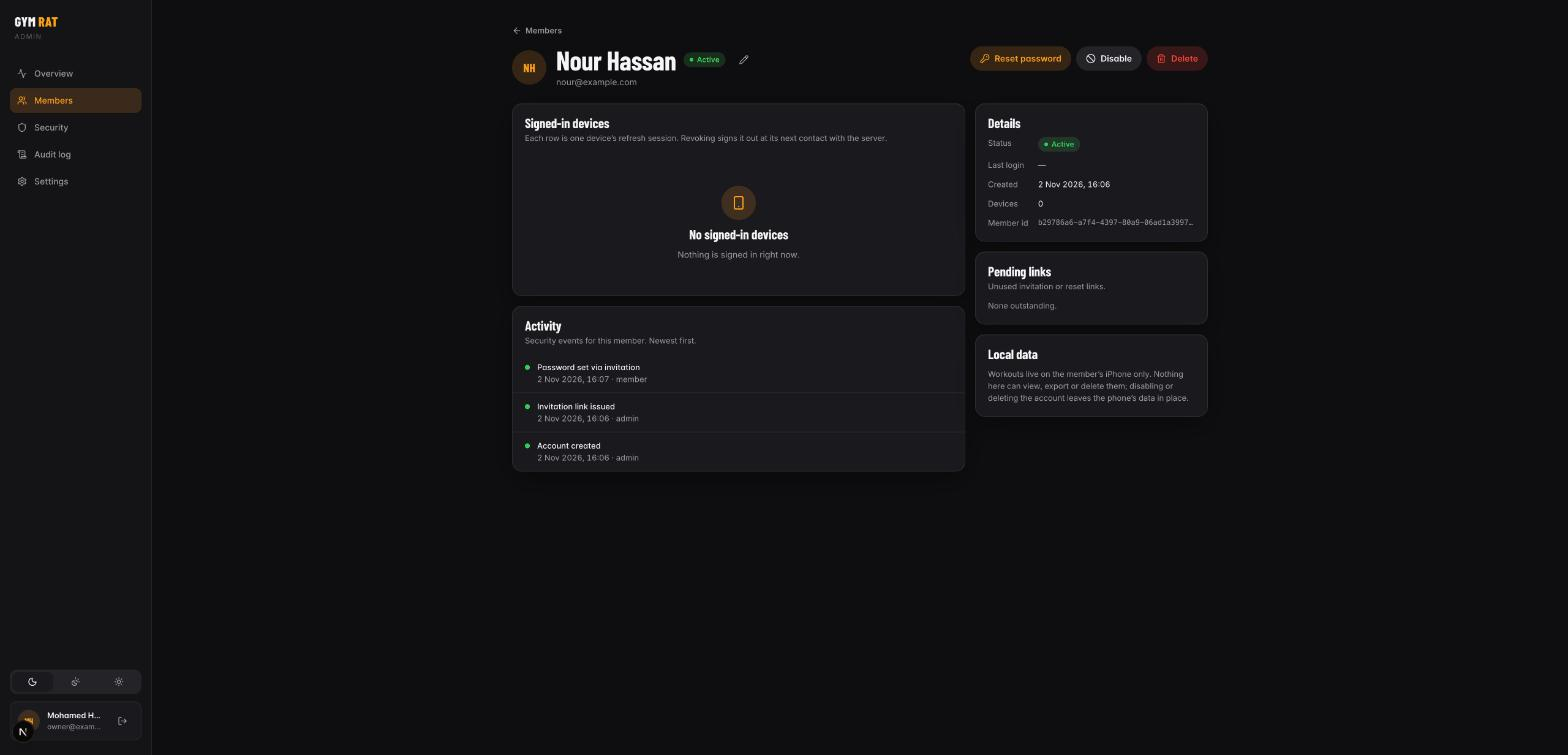
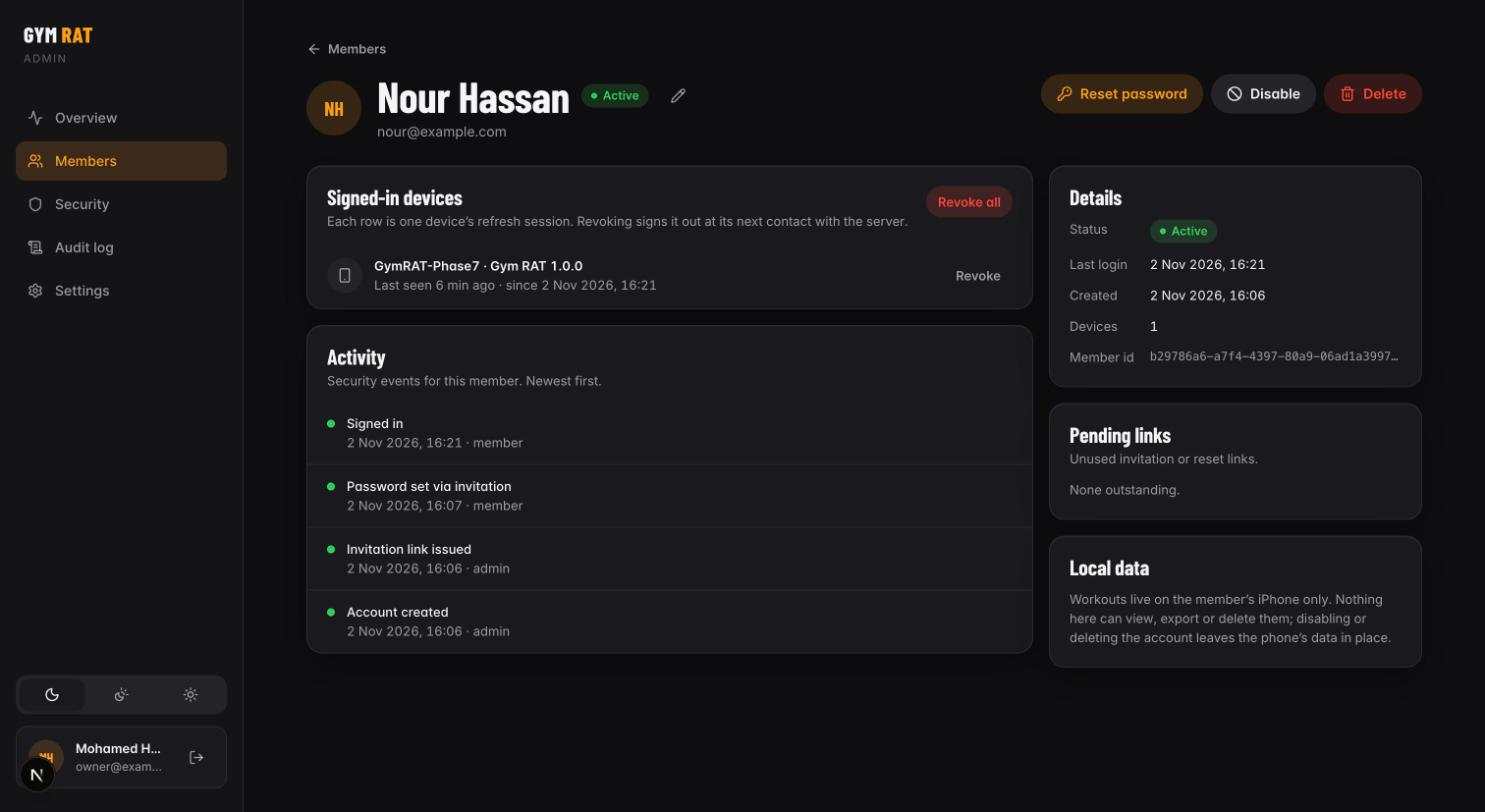
fix(auth-ui): keep Arabic eyebrow joined; soften brand glow; Phase 7 docs and screenshots

diff --git a/components/auth/BrandMark.tsx b/components/auth/BrandMark.tsx
@@ -1,7 +1,7 @@
 import { StyleSheet, Text, View } from 'react-native';
 import Svg, { Defs, Ellipse, RadialGradient, Stop } from 'react-native-svg';
 
-import { useT } from '@/i18n';
+import { isRtlLocale, useLocale, useT } from '@/i18n';
 import { createStyles, useTheme } from '@/theme';
 
 /**
@@ -12,20 +12,23 @@ export function BrandMark({ compact = false }: { compact?: boolean }) {
   const styles = useStyles();
   const theme = useTheme();
   const t = useT();
+  const locale = useLocale();
+  // Arabic letters join; tracking and upper-casing would break the word apart.
+  const latin = !isRtlLocale(locale);
   const glow = theme.scheme === 'dark' ? 0.28 : 0.16;
   return (
     <View style={[styles.root, compact && styles.rootCompact]} accessibilityRole="header" accessibilityLabel={`${t('auth.brand')}. ${t('auth.eyebrow')}`}>
       <Svg pointerEvents="none" style={StyleSheet.absoluteFill} width="100%" height="100%" viewBox="0 0 320 200" preserveAspectRatio="none">
         <Defs>
-          <RadialGradient id="glow" cx="50%" cy="55%" rx="55%" ry="60%">
+          <RadialGradient id="glow" cx="50%" cy="50%" rx="50%" ry="50%">
             <Stop offset="0" stopColor={theme.colors.tint} stopOpacity={glow} />
             <Stop offset="1" stopColor={theme.colors.tint} stopOpacity={0} />
           </RadialGradient>
         </Defs>
-        <Ellipse cx="160" cy="110" rx="190" ry="120" fill="url(#glow)" />
+        <Ellipse cx="160" cy="100" rx="160" ry="100" fill="url(#glow)" />
       </Svg>
-      <Text style={styles.eyebrow} accessibilityElementsHidden importantForAccessibility="no">
-        {t('auth.eyebrow').toUpperCase()}
+      <Text style={[styles.eyebrow, latin && styles.eyebrowLatin]} accessibilityElementsHidden importantForAccessibility="no">
+        {latin ? t('auth.eyebrow').toUpperCase() : t('auth.eyebrow')}
       </Text>
       <Text style={[styles.wordmark, compact && styles.wordmarkCompact]} accessibilityElementsHidden importantForAccessibility="no" allowFontScaling={false}>
         {t('auth.brand')}
@@ -46,10 +49,10 @@ const useStyles = createStyles((t) =>
     rootCompact: { paddingTop: t.spacing.lg, paddingBottom: t.spacing.md },
     eyebrow: {
       ...t.typography.footnote,
-      letterSpacing: 2.5,
       color: t.colors.labelSecondary,
       marginBottom: t.spacing.xs,
     },
+    eyebrowLatin: { letterSpacing: 2.5 },
     wordmark: {
       fontFamily: t.fonts.displayHeavy,
       fontSize: 72,

diff --git a/server/README.md b/server/README.md
@@ -1,0 +1,156 @@
+# Gym RAT auth server + admin dashboard
+
+Self-hosted accounts for the Gym RAT iPhone app (Phase 7, ADR-015/016). One Next.js
+application serves the JSON API the app talks to and the admin dashboard the owner uses.
+PostgreSQL stores accounts, sessions, one-time links and the audit log. **No workout data
+ever reaches this server**: workouts live in SQLite on each member's iPhone.
+
+- Members are created only by the admin. There is no sign-up.
+- Every active member gets every app feature. No tiers, no payments.
+- Admin sign-in needs a password **and** a TOTP authenticator.
+- The app keeps working offline for 7 days after its last successful check-in.
+
+## Layout
+
+```
+server/
+├── src/app/api/auth/*        member API: login, refresh, me, logout, forgot-password, links/[token]
+├── src/app/api/admin/*       admin API (cookie + TOTP + Origin check on every mutation)
+├── src/app/(public)          /login, /invite/[t], /reset/[t], /setup/[t]
+├── src/app/(admin)           /, /members, /members/new, /members/[id], /security, /audit, /settings
+├── src/lib/auth/*            password (Argon2id), jwt (jose), member + admin sessions, action tokens, rate limit
+├── src/lib/db/schema.ts      Drizzle schema → drizzle/*.sql migrations
+├── scripts/                  migrate.ts, bootstrap-admin.ts, dev/totp-code.mts
+├── tests/                    Vitest integration suite (real migrations on PGlite)
+├── Dockerfile, docker-compose.yml, deploy/caddy/Caddyfile, deploy/scripts/{backup,restore}.sh
+└── .env.example              production configuration template
+```
+
+## Local development
+
+```bash
+cd server
+npm install
+docker compose -f docker-compose.dev.yml up -d      # Postgres on 127.0.0.1:5433
+npm run db:migrate                                   # uses .env.development
+npm run bootstrap-admin -- --email you@example.com   # prints a one-time setup link
+npm run dev                                          # http://localhost:3100
+```
+
+Open the setup link, choose a password, sign in, scan the QR with an authenticator app
+(for scripted testing `npx tsx scripts/dev/totp-code.mts` prints the current code from the
+dev database). The iPhone app's Debug builds talk to `http://127.0.0.1:3100` by default
+(`EXPO_PUBLIC_AUTH_API_URL` in the app's `.env` overrides it).
+
+```bash
+npm test          # 30 API integration tests on an in-memory PostgreSQL (PGlite)
+npm run typecheck
+npm run lint
+npm run build     # production build (standalone output)
+```
+
+## Production on a VPS (Docker Compose)
+
+Requirements: a Linux VPS with Docker Engine + Compose v2, a domain whose A/AAAA record
+points at it, and ports 80/443 reachable. Nothing else is exposed: Postgres and the app
+stay on the internal Docker network; Caddy terminates HTTPS with automatic Let's Encrypt.
+
+```bash
+# on the VPS
+git clone <repo> /opt/gymrat && cd /opt/gymrat/server
+cp .env.example .env
+# edit .env: SITE_ADDRESS, PUBLIC_ORIGIN, ACME_EMAIL,
+#   POSTGRES_PASSWORD=$(openssl rand -base64 24)
+#   AUTH_SECRET=$(openssl rand -base64 48)
+docker compose up -d --build
+docker compose logs -f app          # "migrations applied" then "Ready"
+curl -s https://$SITE_ADDRESS/api/health
+
+# first admin (one-time link printed; no password in env or chat)
+docker compose exec app node ./node_modules/tsx/dist/cli.mjs ./scripts/bootstrap-admin.ts --email you@example.com --name "Your Name"
+```
+
+Then build the iPhone app with `EXPO_PUBLIC_AUTH_API_URL=https://<SITE_ADDRESS>` in the app's
+`.env` so it talks to this server.
+
+### Operations
+
+| Task | Command |
+|---|---|
+| Update | `git pull && docker compose up -d --build` (migrations run at container start) |
+| Logs | `docker compose logs -f app` (one JSON line per audit event); Caddy access log in the `caddy_data` volume (`/data/access.log`, rotated 20 MiB × 5) |
+| Backup | `./deploy/scripts/backup.sh` → `deploy/backups/gymrat-<UTC>.sql.gz`, keeps 14. Cron: `15 3 * * * cd /opt/gymrat/server && ./deploy/scripts/backup.sh >> /var/log/gymrat-backup.log 2>&1`. Copy the folder off-box. |
+| Restore | `./deploy/scripts/restore.sh deploy/backups/<file>.sql.gz` (stops the app, replaces the database, starts it) |
+| Rotate `AUTH_SECRET` | change `.env`, `docker compose up -d`: every member must sign in again (access tokens and TOTP seeds are bound to it; re-enrol admin TOTP via the bootstrap CLI) |
+| Add another admin | `ALLOW_ADDITIONAL_ADMIN=1 … bootstrap-admin.ts --email …` (deliberate, never through the dashboard) |
+| Lost authenticator | use a recovery code; if none left, run the bootstrap CLI for that email to get a fresh setup link, then re-enrol |
+
+Container logs are capped at 10 MB × 5 files per service (`logging` in `docker-compose.yml`).
+Restart policy is `unless-stopped` for all three services; the app has a Docker healthcheck on
+`/api/health`, which also reports the database.
+
+### Firewall
+
+Allow inbound TCP 22 (SSH, ideally key-only and restricted by source), 80 and 443 (TCP and UDP
+for HTTP/3). Deny everything else. Postgres (5432) is never published; do not add a `ports:`
+entry to `db`. Example with ufw: `ufw default deny incoming; ufw allow 22; ufw allow 80; ufw allow 443; ufw enable`.
+
+### Monitoring
+
+- `GET /api/health` returns `{"status":"ok","database":"ok"}`; point any uptime monitor at it.
+- Caddy's `health_uri` polls it every 30 s and stops proxying while it fails.
+- Watch the audit log for `member.refresh.reuse_detected` (token replay), `admin.login.failed`
+  and `*.rate_limited`; they are also in `docker compose logs app` as JSON lines.
+- Disk: `docker system df` and the backups folder.
+
+## Security model (summary)
+
+- Passwords: Argon2id (64 MiB, t=3, p=1); policy ≥ 12 chars, deny-list, not the email.
+- Member sessions: 15-minute HS256 access tokens + 30-day opaque refresh tokens (SHA-256 at
+  rest) that rotate on every use; reuse of a spent token revokes the whole device family.
+  `GET /api/auth/me` checks the database, so disablement and revocation apply at the next
+  online contact. The app stores tokens in the iOS Keychain (`AfterFirstUnlockThisDeviceOnly`).
+- Offline lease: the server stamps `expiresAt = now + OFFLINE_LEASE_DAYS` on every login /
+  refresh / me; the app enforces it with a clock high-water mark, so turning the clock back
+  cannot extend it. Revocation while a phone is offline takes effect when it reconnects or
+  when the lease runs out, whichever comes first. The product copy says so.
+- Admin: HttpOnly, Secure, SameSite=Strict cookie; 12 h absolute / 60 min idle; mandatory
+  TOTP with ten hashed recovery codes; every non-GET request must carry a matching `Origin`
+  (or same-origin Fetch Metadata); CSP, `X-Frame-Options: DENY`, HSTS at Caddy.
+- Rate limits (Postgres fixed windows, keys hashed): login 20/15 min per IP and 5/15 min per
+  IP+email; refresh 120/min per IP; forgot-password 5/h per IP and 3/h per email; link
+  redemption 10/15 min per IP; admin login 10/15 min per IP; TOTP 8/15 min per session.
+- Enumeration: login, forgot-password and link redemption answer identically whether or not
+  the email exists.
+- Authorization: `withAdmin` wraps every admin route; member bearer tokens are refused there.
+  No endpoint writes `users.role`; admins exist only through the server CLI.
+- Audit: `audit_events` (actor, action, target, IP, user agent, success, metadata) — never
+  passwords, tokens or codes.
+
+### Sharing links manually (no SMTP)
+
+Without `SMTP_URL`, invitation and reset links are shown to the admin once, to share by hand.
+Implications:
+
+- Whoever opens a link first sets the password. Send it over a channel you trust (in person,
+  an end-to-end encrypted message), not a shared group chat.
+- Links are single-use and expire (invitations 72 h, resets 60 min); issuing a new one cancels
+  the old one, which is the remedy if a link may have leaked.
+- Only the SHA-256 of a link is stored; the dashboard cannot show an old link again.
+- Set `SMTP_URL`/`SMTP_FROM` to have the server email links instead; the member page then
+  says "emailed" and the link is still shown as a fallback.
+
+## API contract used by the app
+
+All JSON. Errors: `{ "error": "<code>" }` with `invalid_credentials` 401, `account_disabled` 403,
+`session_revoked` 401, `invalid_token` 401, `token_expired` 401, `rate_limited` 429 (+ `Retry-After`),
+`validation` 400, `weak_password` 400.
+
+| Method | Path | Body → Response |
+|---|---|---|
+| POST | `/api/auth/login` | `{email,password,deviceName?}` → `{accessToken, accessExpiresIn, refreshToken, user, lease, serverTime}` |
+| POST | `/api/auth/refresh` | `{refreshToken}` → same as login (rotated) |
+| GET | `/api/auth/me` | `Authorization: Bearer` → `{user, lease, serverTime}` |
+| POST | `/api/auth/logout` | `{refreshToken}` → 204 |
+| POST | `/api/auth/forgot-password` | `{email}` → 202 always |
+| GET/POST | `/api/auth/links/[token]` | preview / `{password}` → set password, activate, sign out all devices |

diff --git a/.10x/reviews/2026-11-02-phase7-security-review.md b/.10x/reviews/2026-11-02-phase7-security-review.md
@@ -1,0 +1,43 @@
+# Phase 7 security review — self-hosted auth, admin dashboard, device isolation
+
+**Date:** 2026-11-02 · **Scope:** `services/auth/*`, `data/db/boot.ts`, `app/_layout.tsx`, `server/**` · **Reviewer:** 10x-Team (Security Engineer) · **Method:** code reading against the brief's §4–§7 requirements, threat model below, and the automated suites (Jest 345, Vitest 30) that encode the attacks.
+
+## Threat model
+| Actor | Goal | Controls |
+|---|---|---|
+| Stranger on the internet | Sign in without an account; enumerate members; brute-force | No registration endpoint; identical 401 for unknown/wrong/invited; Argon2id with constant-time fallback hash; Postgres rate limits per IP and IP+email; TLS via Caddy; CSP/HSTS |
+| Thief with a stolen refresh token | Keep a session alive | Rotation on every use; reuse of a spent token revokes the whole family (`member.refresh.reuse_detected`); 30-day idle expiry; admin can revoke per device |
+| Disabled or deleted member | Keep using the app | `me` and `refresh` check `users.status` in the database → 403 at the next online contact; local data kept but the app signs out; offline window bounded to 7 days |
+| Member tampering with the phone clock | Extend offline use | Lease evaluated against `max(now, highWaterMark)` persisted in the Keychain; rollback flagged `clockSuspect`; forward moves only shorten the lease |
+| Second member on the same phone | Read the first member's workouts | One SQLite file per account; media folder per account; store hydrated empty between accounts; Health ledger nulled before the empty hydrate; legacy data only attached on explicit consent |
+| Attacker with a stolen admin password | Open the dashboard | Mandatory TOTP (window ±1), 8 attempts / 15 min per session, hashed recovery codes; cookie `HttpOnly; Secure; SameSite=Strict`; 12 h absolute / 60 min idle |
+| Cross-site page in the admin's browser | Trigger admin actions | `SameSite=Strict` cookie plus `Origin` / `Sec-Fetch-Site` check on every non-GET (`csrf` 403 tested); CSP `frame-ancestors 'none'` |
+| Member trying to become admin | Privilege escalation | No API path writes `users.role`; create/patch schemas drop/refuse `role` (tested); admins only via server CLI |
+| Someone who finds a shared invitation link | Take over the account | Single use, 72 h (reset 60 min), hashed at rest, re-issue cancels; documented manual-sharing guidance |
+| Database dump leak | Reuse credentials | Argon2id password hashes; SHA-256 of every token; TOTP seeds AES-256-GCM under an HKDF-derived key from `AUTH_SECRET`; recovery codes hashed |
+
+## Requirement check (brief §4)
+Email/password ✓ · no public registration ✓ · admin-only provisioning ✓ · unique ids (UUID) ✓ · Argon2id ✓ · strong password policy ✓ · rate limiting ✓ · generic errors ✓ · short-lived access tokens (15 min) ✓ · rotating refresh ✓ · server-side revocation ✓ · Keychain storage ✓ · HttpOnly/SameSite cookies ✓ · CSRF ✓ · authorization on every admin endpoint (`withAdmin`) ✓ · validation (zod) + parameterised queries (Drizzle) ✓ · structured security logging without secrets ✓ · admin TOTP ✓ · no hardcoded secrets (env validated at boot; `.env.development` is dev-only and says so) ✓ · bootstrap via one-time CLI link ✓ · no admin/DB secrets in the app (`EXPO_PUBLIC_AUTH_API_URL` only) ✓.
+
+## Findings
+| Sev | Finding | Status / mitigation |
+|---|---|---|
+| Medium | `TRUST_PROXY=1` trusts `X-Forwarded-For`. Safe behind the shipped Caddyfile (`header_up X-Forwarded-For {remote_host}` overwrites client input) but a different proxy must do the same, or rate limits can be bypassed by spoofing. | Documented in README; `TRUST_PROXY=0` when exposed directly. |
+| Medium | Per-IP login limit (20/15 min) can lock a whole gym behind one NAT if several members mistype at once. | Per-account limit (5) is the real brake; per-IP is a backstop. Tunable in `LIMITS`. Owner to decide after real use. |
+| Medium | Offline lease is enforced by app code; a jailbroken device can patch it. | Accepted (brief asks for "not trivially"); true enforcement needs online checks, which happen whenever the device is online. |
+| Low | HS256 with one shared `AUTH_SECRET` for access tokens and TOTP-seed key derivation. | Single service, no verifier outside it; rotation signs everyone out (documented). Move to EdDSA if a second service ever needs to verify tokens. |
+| Low | `proxy.ts` only checks cookie presence (full validation in every API call). | By design: it prevents rendering the shell, not access. |
+| Low | Invitation / reset preview reveals display name + email to the link holder. | Inherent to the flow; link is secret, single-use and short-lived. |
+| Low | Audit metadata contains emails (needed by the admin) and device names chosen by the client. | React escapes output; nothing executes. No tokens/passwords are ever logged (tests assert). |
+| Low | No automatic pruning of `audit_events` / dead `refresh_tokens`. | DBA note; manual `DELETE` cron recommended after a year. |
+| Info | Dependencies: `npm audit` for the server not run against a registry mirror; run before deploy. | Owner action at deploy time. |
+
+## Device-side review
+- Keychain items use `AFTER_FIRST_UNLOCK_THIS_DEVICE_ONLY`: no migration to another device through backups; background refresh works after first unlock.
+- Sign-out clears the Keychain before the (best-effort) server call, so a failed network call never leaves credentials behind.
+- `removeAccountData` requires an explicit confirmation dialog and deletes only that account's files; `resetAllData` is scoped to the open account.
+- Legacy claim never deletes: copy → verify counts → rename.
+- User ids are validated (`^[A-Za-z0-9_-]{1,64}$`) before becoming file names.
+
+## Verdict
+No blocking findings. Ship to the owner's VPS once secrets are generated on the server; keep the manual-link guidance in the dashboard copy.

diff --git a/.10x/decisions/sde/phase7-private-auth.md b/.10x/decisions/sde/phase7-private-auth.md
@@ -1,0 +1,19 @@
+# SDE — phase7-private-auth (what was built)
+## App (Expo / React Native)
+- `services/auth/{types,lease,storage,api,session}.ts` — contract, lease policy (pure), SecureStore wrapper + memory fake, fetch client with typed errors, session manager (restore / signIn / signOut / revalidate / single-flight refresh).
+- `store/useAuthStore.ts` — Zustand mirror of the session; `configureAuthSession` test seam. `config/auth.ts` — base URL from `EXPO_PUBLIC_AUTH_API_URL` (Debug default localhost:3100), device label.
+- `data/db/boot.ts` — boot scopes (`{userId}`; null = legacy file), `closeDatabase`, `removeAccountData`, `probeLegacyData`, `claimLegacyData`; `resetAllData` scoped. `data/db/schema.ts` — `userDatabaseName`/`userBackupDatabaseName` with id validation. `lib/customMedia.ts` — per-account photo folder. `store/useStoreHydrated.ts` — keyed by scope.
+- `app/_layout.tsx` — Keychain restore before splash hide; `Stack.Protected` for `auth/*`, onboarding, app; `AccountSession` (boots DB, attaches integrations, revalidates on foreground, offers legacy data once); `SignedOut` closes the file; `BootOverlay` fade.
+- Screens: `screens/auth/{LoginScreen,ForgotPasswordScreen,LegacyDataScreen}.tsx`, `legacyPrompt.ts`; components `auth/{BrandMark,AuthField}`, `settings/AccountSection`; routes `app/auth/{login,forgot,legacy-data}.tsx`. Strings `i18n/auth.{en,ar}.ts`.
+- `jest.setup.js` — SecureStore mock. `.env.example`. `expo-secure-store` added (native: prebuild done in the worktree).
+## Server (`server/`, Next.js 16 App Router)
+- `src/lib/{env,http,cookies,audit,mail,members,admin-guard}.ts`, `src/lib/auth/{crypto,password,jwt,rate-limit,member-sessions,admin-sessions,action-tokens}.ts`, `src/lib/db/{schema,index}.ts`, `drizzle/0000_init.sql`.
+- Routes: `api/health`, `api/auth/{login,refresh,me,logout,forgot-password,links/[token]}`, `api/admin/{session,session/mfa,mfa/enrol,members,members/[id],members/[id]/sessions,members/[id]/links,stats,sessions,audit,reset-requests,reset-requests/[id],account}`.
+- UI: `(public)` login flow (password → TOTP / enrolment with QR + recovery codes), `/invite|/reset|/setup/[token]`; `(admin)` shell with dark / true-black / light themes, overview, members (search, filter, pagination), new member (link panel), member detail (devices, activity, actions with confirm dialogs, toasts), security, audit, settings. Primitives in `src/components/ui/*`.
+- Ops: `Dockerfile` (standalone, non-root, healthcheck, migrations in entrypoint), `docker-compose.yml` (+ `.dev.yml`), `deploy/caddy/Caddyfile`, `deploy/scripts/{backup,restore,entrypoint}.sh`, `scripts/{migrate,bootstrap-admin}.ts`, `scripts/dev/totp-code.mts`, `README.md`.
+## Deviations from the brief
+- shadcn/ui components were written by hand in the same style (the CLI is interactive); Lucide icons used throughout.
+- Email delivery is plain-text nodemailer (optional); no HTML templates.
+- Admin role assignment only via CLI (stronger than the brief's "no self-promotion").
+## Tech debt
+- `audit_events` / dead `refresh_tokens` pruning is manual. Mobile responsive layout of the dashboard is implemented with Tailwind breakpoints but was not screenshot-verified at phone width (window resize was refused by the browser session). Reduced-motion honoured; no further animation work.

diff --git a/.10x/specs/2026-11-02-phase7-private-members-design.md b/.10x/specs/2026-11-02-phase7-private-members-design.md
@@ -1,0 +1,36 @@
+# Phase 7 — Private members platform (design)
+
+**Date:** 2026-11-02 · **Slug:** `phase7-private-auth` · **Branch:** `feature/phase7-private-auth` (worktree `../Gym RAT-phase7`, base `main @ 4a65663`) · **ADRs:** 015, 016
+**Source:** owner brief "GYM RAT — PHASE 7: PREMIUM PRIVATE MEMBERS PLATFORM" (decisions pre-approved; execution authorised without further confirmation).
+
+## Goal
+Login-only Gym RAT: accounts created by the administrator on a self-hosted backend; every active member gets every feature; workouts stay on the phone; offline use bounded to seven days; a premium admin dashboard.
+
+## Scope
+In: iOS sign-in, forgot-password, legacy-data claim and account settings; Keychain session with rotating refresh and offline lease; per-account SQLite files; Next.js API + admin dashboard; PostgreSQL schema/migrations; Docker Compose + Caddy; tests; local IPA attempt; docs.
+Out: App Store / TestFlight; cloud sync of workouts; payments or tiers; managed auth providers; email templates beyond plain text.
+
+## Architecture
+See ADR-015 (auth, sessions, lease, backend composition) and ADR-016 (per-account local data, legacy claim, teardown ordering).
+
+```
+iPhone (Expo RN)                              VPS (Docker Compose)
+┌─────────────────────────────┐   HTTPS   ┌──────────┐  ┌─────────────────┐  ┌──────────┐
+│ auth session (Keychain)     │◄─────────►│  Caddy   │─►│ Next.js app      │─►│ Postgres │
+│ lease policy (hwm clock)    │ /api/auth │ TLS/ACME │  │ /api/auth (JWT)  │  │ accounts │
+│ per-user SQLite gymrat.u-*  │           │          │  │ /api/admin (cookie│  │ sessions │
+│ workouts never uploaded     │           │          │  │  + TOTP + Origin)│  │ audit    │
+└─────────────────────────────┘           └──────────┘  └─────────────────┘  └──────────┘
+```
+
+## Data flow
+1. Sign-in → server verifies Argon2id hash → issues access JWT (15 min), refresh token (30 d, hashed, family), lease (7 d).
+2. App stores all three in SecureStore; boots `gymrat.u-<id>.db`; offers legacy claim once if `gymrat.db` holds user data and the account has none.
+3. Launch / foreground → `GET /api/auth/me` (refresh if needed) → lease renewed; 401/403 → sign-out wall, data kept; network error → lease governs.
+4. Admin creates member → invitation link (emailed or shown once) → member sets password on the web page → app sign-in.
+
+## Error handling
+Generic 401 for any credential problem; 403 for disabled; 429 with Retry-After; app maps codes to translated copy; nothing destructive on any auth error.
+
+## Testing
+Jest (app): lease + session manager (18), per-account files + legacy (10), screens en/ar + a11y (9), plus the 308 existing. Vitest (server): 30 API integration tests on PGlite with the shipped migrations. Manual: dashboard walk-through in Chrome (screenshots), Release simulator build, archive ladder.

diff --git a/.10x/decisions/engineering-manager/phase7-private-auth.md b/.10x/decisions/engineering-manager/phase7-private-auth.md
@@ -1,0 +1,15 @@
+# Engineering Manager — phase7-private-auth
+| # | Task | Status |
+|---|---|---|
+| T1 | Worktree, ADR-015/016, SecureStore install, prebuild | Done |
+| T2 | Lease policy, session manager, API client, auth store | Done (`603d946`) |
+| T3 | Boot scopes, legacy probe/claim, media scope | Done (`603d946`) |
+| T4 | Login / forgot / legacy screens, root layout gating, Settings account | Done (`603d946`) |
+| T5 | App tests (session, isolation, screens) + full suite | Done, 345/345 |
+| T6 | Server schema, migrations, auth libs, routes | Done (`64f4b3c`) |
+| T7 | Server integration tests (PGlite) | Done, 30/30 |
+| T8 | Admin UI + public pages + Docker/Caddy | Done (`e39542a`) |
+| T9 | Dashboard walk-through + screenshots | Done |
+| T10 | Release simulator build, archive ladder, IPA | see report |
+| T11 | State files, security review, report | see report |
+**Sequencing rationale:** app-side isolation first (riskiest for existing data), server next (contract fixed by `services/auth/types.ts`), UI last.

diff --git a/.10x/decisions/architect/phase7-private-auth.md b/.10x/decisions/architect/phase7-private-auth.md
@@ -1,0 +1,5 @@
+# Architect — phase7-private-auth (ADR-015, ADR-016)
+**Components:** `services/auth/*` (api client, lease policy, secure storage, session manager) · `store/useAuthStore` · `data/db/boot.ts` scopes · `screens/auth/*` · server `lib/auth/*`, `lib/members.ts`, route handlers, admin UI.
+**Boundaries:** the session manager never touches workout data; boot never touches credentials; the server never sees workout rows. Pure modules (`lease.ts`, `password.ts`, `jwt.ts`) have no I/O.
+**Failure modes:** server down → lease governs for ≤ 7 days, then sign-in wall with data intact · token theft → family revocation on reuse · clock rollback → high-water mark · admin lockout → recovery codes, then CLI · copy failure during legacy claim → legacy file untouched (rename only after verified copy).
+**Trade-offs accepted:** HS256 with one server secret (single service, simplest rotation) over asymmetric keys; file-per-account over a column (no migration risk) at the cost of a claim screen.

diff --git a/.10x/decisions/product-manager/phase7-private-auth.md b/.10x/decisions/product-manager/phase7-private-auth.md
@@ -1,0 +1,7 @@
+# Product Manager — phase7-private-auth
+**Problem:** Gym RAT must become a private members app: only people the owner provisions can use it, with every feature.
+**Users:** the owner (admin, one person) and their members (iPhone).
+**Stories:** admin creates a member and shares a link → member sets a password and signs in → member trains offline for a week without thinking about it → admin disables/resets/revokes from the dashboard → member sees honest copy about where their data lives.
+**Success:** sign-in < 10 s on a normal connection; zero workouts lost across sign-out, lease expiry, account switch; admin can do everything from one page per member; no password ever visible to the admin.
+**Non-goals (this phase):** sync, tiers, payments, App Store submission.
+**Copy decisions:** "Workouts live on this iPhone only. Signing in on another phone starts with an empty history." Revocation copy says "the next time it is online"; never "instantly".

diff --git a/.10x/decisions/dba/phase7-private-auth.md b/.10x/decisions/dba/phase7-private-auth.md
@@ -1,0 +1,4 @@
+# DBA — phase7-private-auth
+**Server (PostgreSQL, Drizzle):** `users` (unique on `lower(email)`), `admin_totp`, `admin_sessions`, `refresh_tokens` (indexes on token hash, user, family), `action_tokens`, `password_reset_requests`, `audit_events` (bigserial, indexes on `at` and target), `rate_limits` (PK key, upsert). Migration `drizzle/0000_init.sql` applied by `scripts/migrate.ts` at container start and by the Vitest setup on PGlite. All tokens hashed; cascading deletes from `users`.
+**Growth:** `audit_events` and `refresh_tokens` grow with use; prune rows older than a year with a cron `DELETE` when needed (not automated in this phase). `rate_limits` has `pruneRateLimits()`.
+**Device (SQLite):** schema v10 unchanged. One file per account (`gymrat.u-<uuid>.db` + backup), legacy `gymrat.db` renamed to `gymrat.legacy-claimed.db` after a verified claim. Existing migration/backup/restore code reused per file.

diff --git a/.10x/decisions/staff-engineer/phase7-private-auth.md b/.10x/decisions/staff-engineer/phase7-private-auth.md
@@ -1,0 +1,5 @@
+# Staff Engineer — phase7-private-auth
+**Patterns kept:** Zustand store + external session object (same shape as `services/integrations`); `createStyles` + theme tokens, no colour literals; i18n dictionaries `auth.en.ts`/`auth.ar.ts`; tests inject fakes through `configureAuthSession` / `createMemoryAuthStorage` / `setDbForTests`.
+**Cross-cutting:** every auth error is a code, translated at the edge; every admin route goes through `withAdmin`; every token is hashed before storage; `requestContext()` is the only place IPs are read.
+**Standards added:** server dir excluded from root tsc/eslint/jest; `server/` has its own toolchain. Route handlers stay plain functions of `Request` so the Vitest suite calls them directly. React 19 lint rules: no setState in effects (adjust-during-render or `useSyncExternalStore`).
+**Protected:** `SetRow`, `ExerciseCard` grid untouched; 4 snapshots byte-identical.

diff --git a/.10x/decisions/devops/phase7-private-auth.md b/.10x/decisions/devops/phase7-private-auth.md
@@ -1,0 +1,6 @@
+# DevOps — phase7-private-auth
+**Deploy:** `server/docker-compose.yml` = Postgres 17 (internal), app (standalone Next build, non-root, healthcheck, migrations in entrypoint), Caddy (80/443, auto-TLS, HSTS, JSON access log). `.env.example` lists every variable; secrets generated with `openssl rand`. Restart `unless-stopped`; JSON logs capped 10 MB × 5.
+**Backup/restore:** `deploy/scripts/backup.sh` (pg_dump gz, keep 14) and `restore.sh` (confirmation, stops app). Owner copies backups off the VPS.
+**Firewall:** 22/80/443 only; Postgres never published.
+**Rollback:** `git checkout <previous> && docker compose up -d --build`; migrations are additive so an older app runs on a newer schema.
+**App builds:** `EXPO_PUBLIC_AUTH_API_URL` baked at bundle time; Debug falls back to localhost. Local Xcode archive ladder documented in the Phase 7 report; no EAS used.

diff --git a/.10x/decisions/sre/phase7-private-auth.md b/.10x/decisions/sre/phase7-private-auth.md
@@ -1,0 +1,4 @@
+# SRE — phase7-private-auth
+**SLOs (proposed):** `/api/health` 99.5 % monthly; login p95 < 800 ms (Argon2id dominates at ~150 ms); members keep training during any outage thanks to the 7-day lease.
+**Monitoring:** uptime monitor on `/api/health`; Caddy health polling; watch audit lines `member.refresh.reuse_detected`, `admin.login.failed`, `*.rate_limited`; disk usage of volumes and backups.
+**Runbook:** server down → `docker compose ps`, `logs app`, `logs db`; database unreachable → health returns 503 "degraded", restart `db`, restore from backup if corrupt; certificate issues → `logs caddy`, check DNS and ports 80/443; admin locked out → recovery code, else bootstrap CLI; suspected token theft → disable member or revoke sessions from the dashboard, rotate `AUTH_SECRET` if the server itself was compromised.
